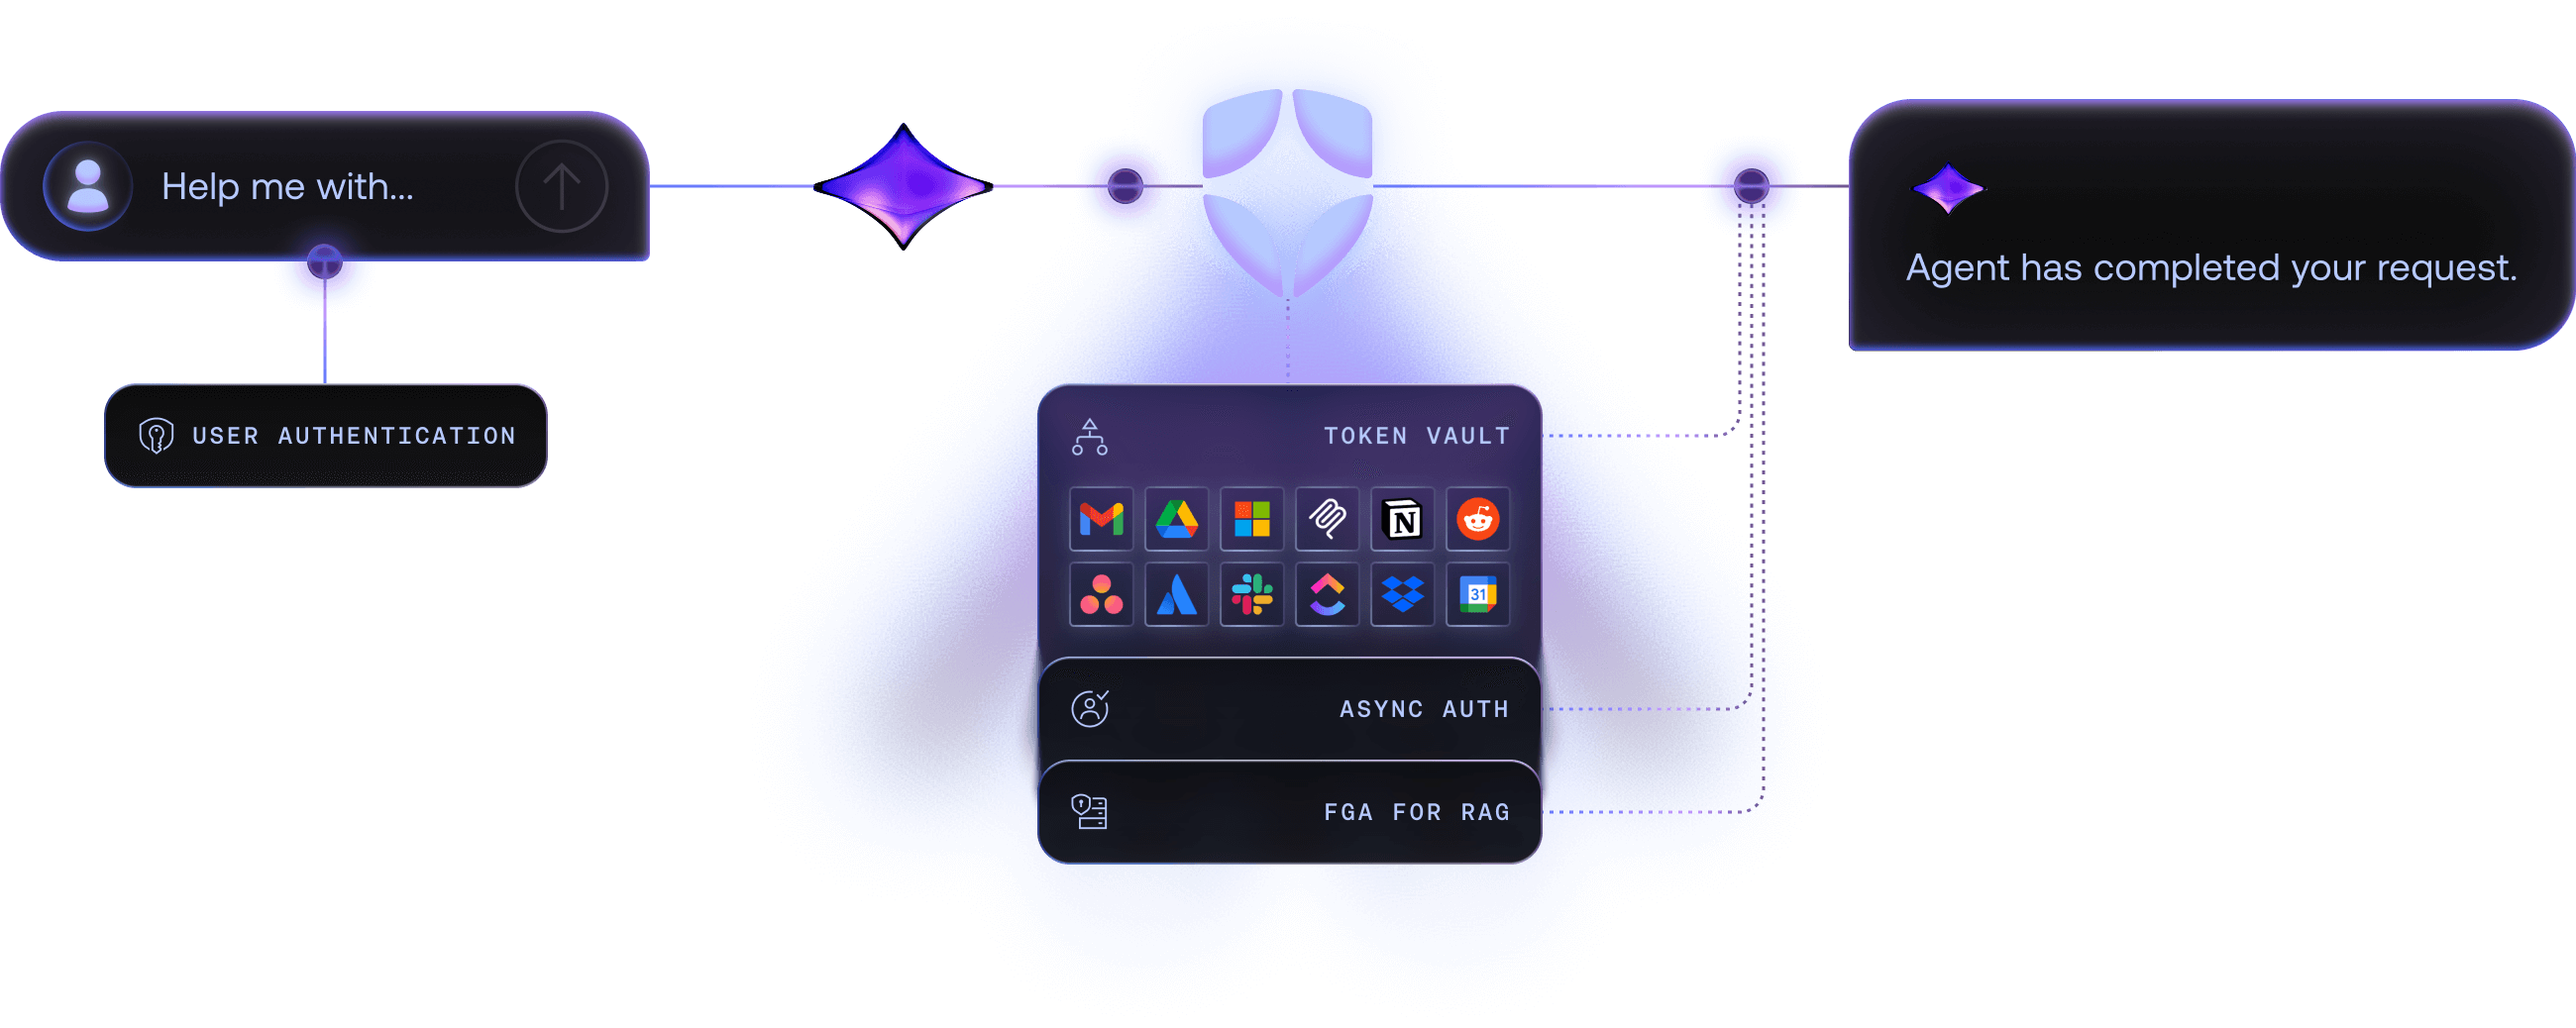
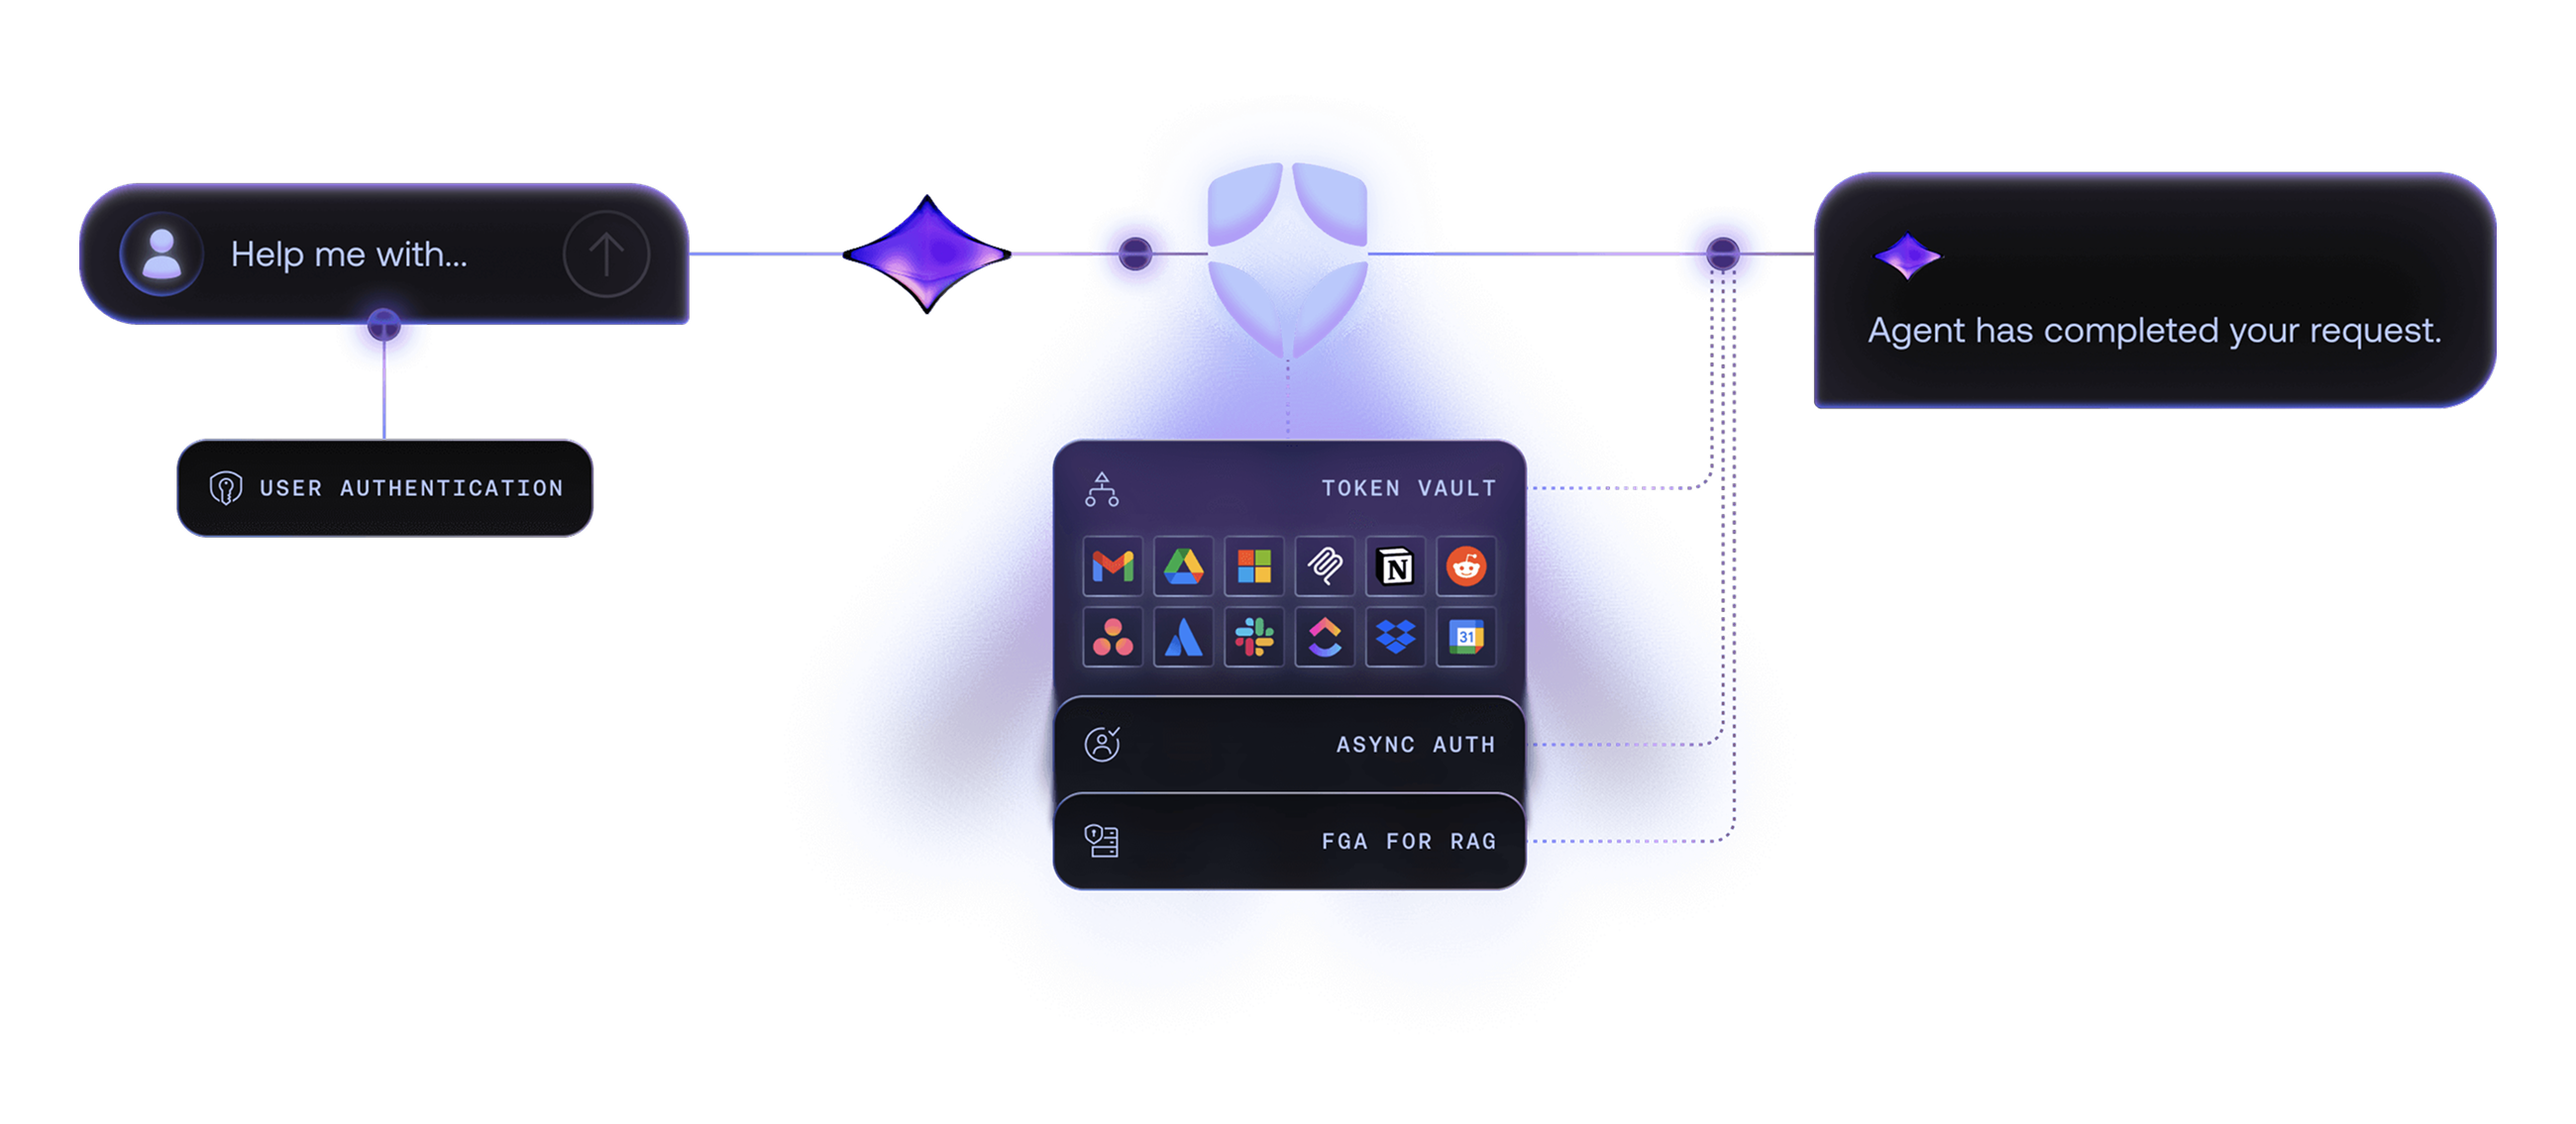
fix: image styling

diff --git a/auth4genai/style.css b/auth4genai/style.css
@@ -410,8 +410,8 @@ li {
 
   /* Dark Mode Component Colors */
   --section-icon-bg: #1b1f2a;
-  --card-bg: #151923;
-  --shadow: #000000;
+  --card-bg: oklch(100% 0 0);
+  --shadow: oklch(50% 0 0);
   --card-shadow: rgba(255, 255, 255, 0.06);
 
   /* Dark Mode Form Elements */
@@ -433,8 +433,26 @@ html[style*="color-scheme: dark"] {
   margin: 20px 0;
 }
 
+.frame > div > span[data-as="p"] {
+  margin-top: 0 !important;
+  margin-bottom: 0 !important;
+}
+
 .frame :where(img) {
-  width: 100%;
+  object-view-box: inset(9px 9px);
+  width: 97.5%;
+  margin: 0.5rem auto;
+  border-radius: 0.65rem;
+  overflow: clip;
+  box-shadow: inset 0 0 0 0.5px oklch(from var(--shadow) l c h / 0.1),
+    0 0 0 1px oklch(from var(--shadow) l c h / 0.12),
+    0 1px 1px 0 oklch(from var(--shadow) l c h / 0.04),
+    0 1px 2px -1px oklch(from var(--shadow) l c h / 0.04),
+    0 2px 2px -1px oklch(from var(--shadow) l c h / 0.04),
+    0 2px 4px -2px oklch(from var(--shadow) l c h / 0.04),
+    0 3px 6px -3px oklch(from var(--shadow) l c h / 0.04),
+    0 4px 8px -4px oklch(from var(--shadow) l c h / 0.04),
+    0 6px 12px -6px oklch(from var(--shadow) l c h / 0.04);
 }
 
 div[data-component-part="frame-caption"] {
@@ -1335,7 +1353,7 @@ button[data-component-part="tab-button"][aria-selected="true"] {
 }
 
 /* FIXME: Temporary override for both the original SDK cards and the custom cards due to large margin in Mintlify's latest changes to their <CardGroup> component styling */
-.prose :where(img):not(:where([class~=not-prose],[class~=not-prose] *)) {
+.prose :where(img):not(:where([class~="not-prose"], [class~="not-prose"] *)) {
   margin-top: 0;
   margin-bottom: 0;
 }

diff --git a/main/docs/css/styles.css b/main/docs/css/styles.css
@@ -595,10 +595,15 @@ html[style*="color-scheme: dark"] {
   margin: 20px 0;
 }
 
+.frame > div > span[data-as=p] {
+  margin-top: 0 !important;
+  margin-bottom: 0 !important;
+}
+
 .frame :where(img) {
   object-view-box: inset(1px 1px);
   width: 97.5%;
-  margin: 0.5rem;
+  margin: 0.5rem auto;
   border-radius: 0.65rem;
   overflow: clip;
   box-shadow: inset 0 0 0 1px oklch(from var(--shadow) l c h / 0.1),
